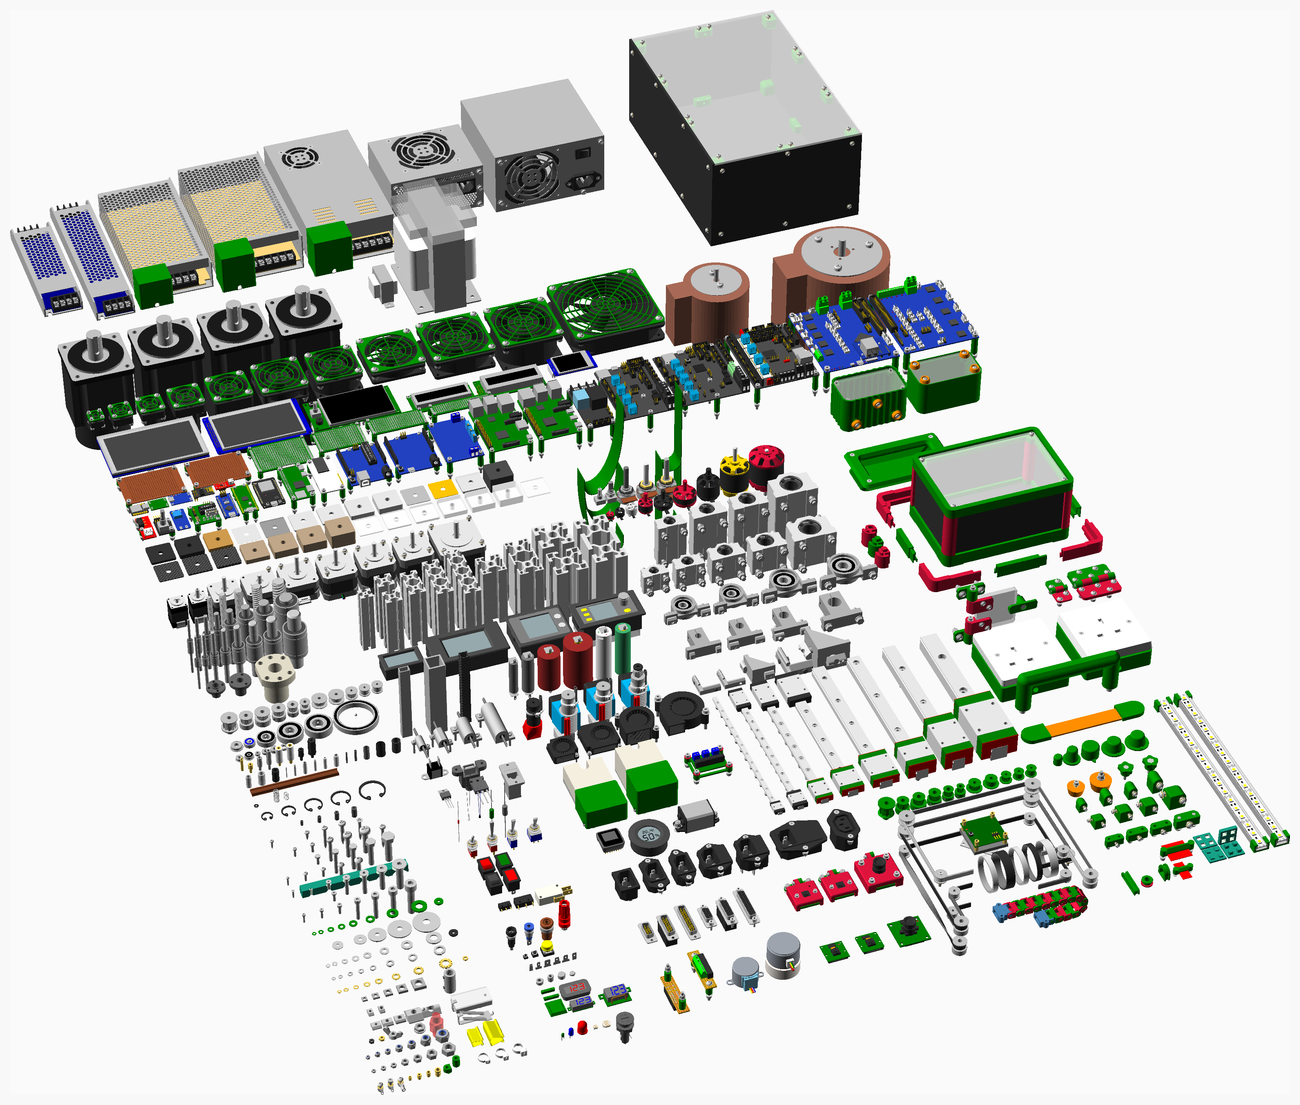
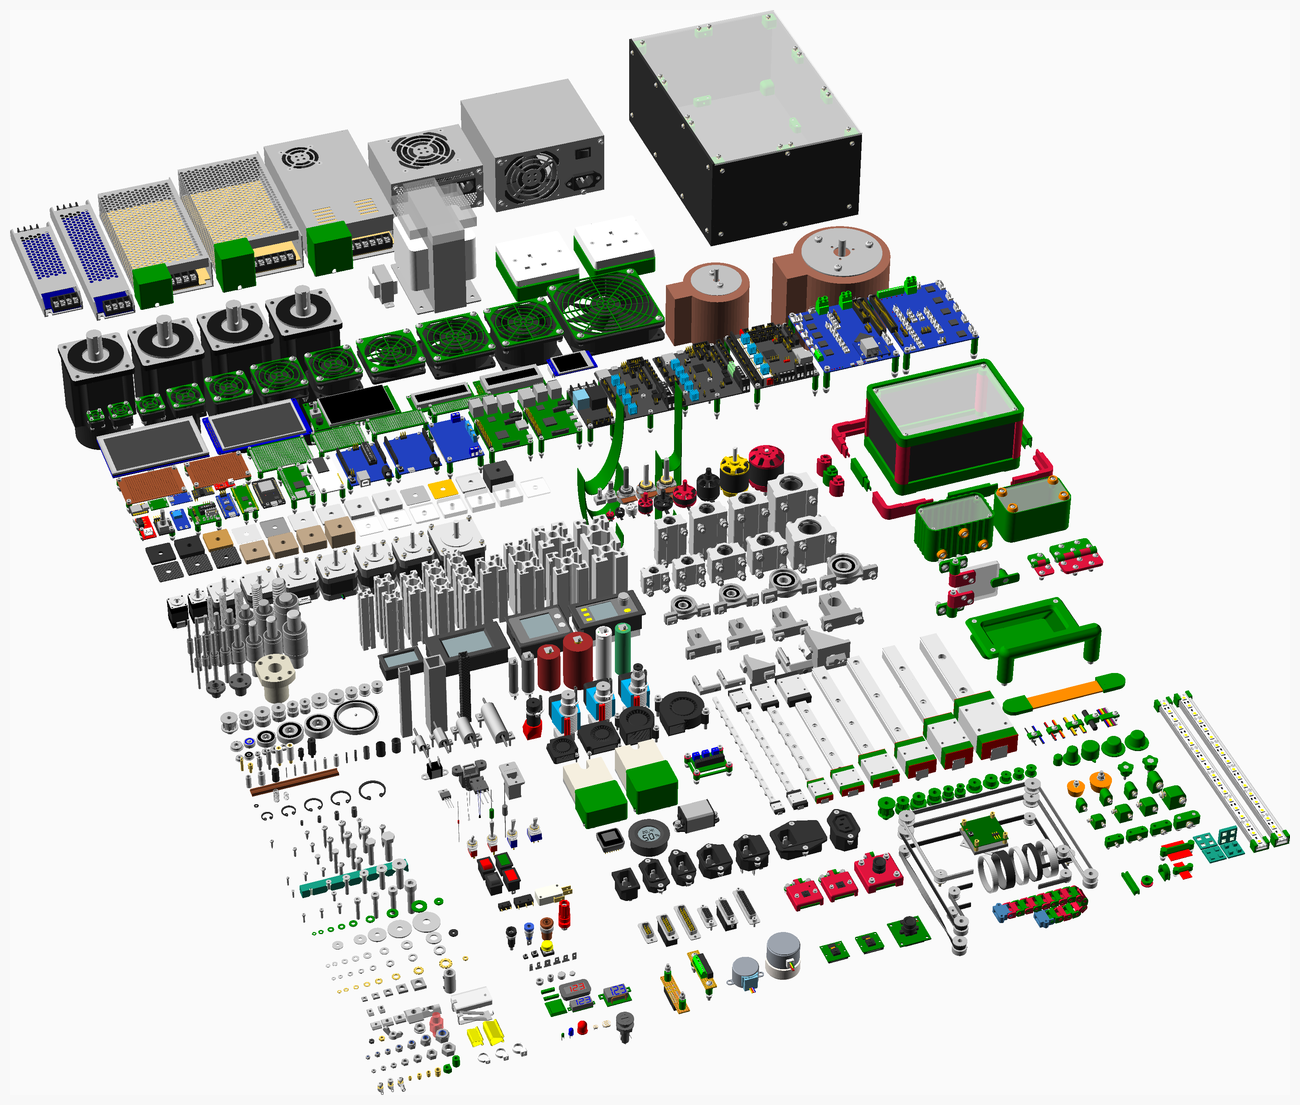
Added printed cable clips.

Changed region(s): [[0.6154, 0.3077, 0.8923, 0.6769], [0.3692, 0.2154, 0.5231, 0.2769]]

diff --git a/readme.md b/readme.md
@@ -23,30 +23,31 @@ A list of changes classified as breaking, additions or fixes is maintained in [C
 <th align="left"> Vitamins A-H </th><th align="left"> Vitamins I-Q </th><th align="left"> Vitamins R-Z </th><th align="left"> Printed </th><th align="left"> Utilities </th><th align="left"> Core Utilities </th></tr>
 <tr><td> <a href = "#7_segments">7_segments</a> </td><td> <a href = "#IECs">IECs</a> </td><td> <a href = "#Rails">Rails</a> </td><td> <a href = "#Box">Box</a> </td><td> <a href = "#Annotation">Annotation</a> </td><td> <a href = "#BOM">BOM</a> </td></tr>
 <tr><td> <a href = "#Axials">Axials</a> </td><td> <a href = "#Inserts">Inserts</a> </td><td> <a href = "#Ring_terminals">Ring_terminals</a> </td><td> <a href = "#Butt_box">Butt_box</a> </td><td> <a href = "#Bezier">Bezier</a> </td><td> <a href = "#Clip">Clip</a> </td></tr>
-<tr><td> <a href = "#BLDC_motors">BLDC_motors</a> </td><td> <a href = "#Jack">Jack</a> </td><td> <a href = "#Rockers">Rockers</a> </td><td> <a href = "#Cable_grommets">Cable_grommets</a> </td><td> <a href = "#Catenary">Catenary</a> </td><td> <a href = "#Global">Global</a> </td></tr>
-<tr><td> <a href = "#Ball_bearings">Ball_bearings</a> </td><td> <a href = "#LDRs">LDRs</a> </td><td> <a href = "#Rod">Rod</a> </td><td> <a href = "#Camera_housing">Camera_housing</a> </td><td> <a href = "#Core_xy">Core_xy</a> </td><td> <a href = "#Polyholes">Polyholes</a> </td></tr>
-<tr><td> <a href = "#Batteries">Batteries</a> </td><td> <a href = "#LED_meters">LED_meters</a> </td><td> <a href = "#SK_brackets">SK_brackets</a> </td><td> <a href = "#Carriers">Carriers</a> </td><td> <a href = "#Dogbones">Dogbones</a> </td><td> <a href = "#Rounded_rectangle">Rounded_rectangle</a> </td></tr>
-<tr><td> <a href = "#Bearing_blocks">Bearing_blocks</a> </td><td> <a href = "#LEDs">LEDs</a> </td><td> <a href = "#SMDs">SMDs</a> </td><td> <a href = "#Corner_block">Corner_block</a> </td><td> <a href = "#Fillet">Fillet</a> </td><td> <a href = "#Sphere">Sphere</a> </td></tr>
-<tr><td> <a href = "#Belts">Belts</a> </td><td> <a href = "#Leadnuts">Leadnuts</a> </td><td> <a href = "#SSRs">SSRs</a> </td><td> <a href = "#Door_hinge">Door_hinge</a> </td><td> <a href = "#Gears">Gears</a> </td><td> <a href = "#Teardrops">Teardrops</a> </td></tr>
-<tr><td> <a href = "#Blowers">Blowers</a> </td><td> <a href = "#Light_strips">Light_strips</a> </td><td> <a href = "#Screws">Screws</a> </td><td> <a href = "#Door_latch">Door_latch</a> </td><td> <a href = "#Hanging_hole">Hanging_hole</a> </td><td></td></tr>
-<tr><td> <a href = "#Box_sections">Box_sections</a> </td><td> <a href = "#Linear_bearings">Linear_bearings</a> </td><td> <a href = "#Sealing_strip">Sealing_strip</a> </td><td> <a href = "#Drag_chain">Drag_chain</a> </td><td> <a href = "#Horiholes">Horiholes</a> </td><td></td></tr>
-<tr><td> <a href = "#Bulldogs">Bulldogs</a> </td><td> <a href = "#Magnets">Magnets</a> </td><td> <a href = "#Servo_motors">Servo_motors</a> </td><td> <a href = "#Fan_guard">Fan_guard</a> </td><td> <a href = "#Layout">Layout</a> </td><td></td></tr>
-<tr><td> <a href = "#Buttons">Buttons</a> </td><td> <a href = "#Mains_sockets">Mains_sockets</a> </td><td> <a href = "#Shaft_couplings">Shaft_couplings</a> </td><td> <a href = "#Fixing_block">Fixing_block</a> </td><td> <a href = "#Maths">Maths</a> </td><td></td></tr>
-<tr><td> <a href = "#Cable_strips">Cable_strips</a> </td><td> <a href = "#Microswitches">Microswitches</a> </td><td> <a href = "#Sheets">Sheets</a> </td><td> <a href = "#Flat_hinge">Flat_hinge</a> </td><td> <a href = "#Offset">Offset</a> </td><td></td></tr>
-<tr><td> <a href = "#Cameras">Cameras</a> </td><td> <a href = "#Microview">Microview</a> </td><td> <a href = "#Spades">Spades</a> </td><td> <a href = "#Foot">Foot</a> </td><td> <a href = "#Quadrant">Quadrant</a> </td><td></td></tr>
-<tr><td> <a href = "#Circlips">Circlips</a> </td><td> <a href = "#Modules">Modules</a> </td><td> <a href = "#Spools">Spools</a> </td><td> <a href = "#Handle">Handle</a> </td><td> <a href = "#Round">Round</a> </td><td></td></tr>
-<tr><td> <a href = "#Components">Components</a> </td><td> <a href = "#Nuts">Nuts</a> </td><td> <a href = "#Springs">Springs</a> </td><td> <a href = "#Knob">Knob</a> </td><td> <a href = "#Rounded_cylinder">Rounded_cylinder</a> </td><td></td></tr>
-<tr><td> <a href = "#DIP">DIP</a> </td><td> <a href = "#O_ring">O_ring</a> </td><td> <a href = "#Stepper_motors">Stepper_motors</a> </td><td> <a href = "#PCB_mount">PCB_mount</a> </td><td> <a href = "#Rounded_polygon">Rounded_polygon</a> </td><td></td></tr>
-<tr><td> <a href = "#D_connectors">D_connectors</a> </td><td> <a href = "#Opengrab">Opengrab</a> </td><td> <a href = "#Swiss_clips">Swiss_clips</a> </td><td> <a href = "#PSU_shroud">PSU_shroud</a> </td><td> <a href = "#Rounded_triangle">Rounded_triangle</a> </td><td></td></tr>
-<tr><td> <a href = "#Displays">Displays</a> </td><td> <a href = "#PCB">PCB</a> </td><td> <a href = "#Terminals">Terminals</a> </td><td> <a href = "#Pocket_handle">Pocket_handle</a> </td><td> <a href = "#Sector">Sector</a> </td><td></td></tr>
-<tr><td> <a href = "#Extrusion_brackets">Extrusion_brackets</a> </td><td> <a href = "#PCBs">PCBs</a> </td><td> <a href = "#Toggles">Toggles</a> </td><td> <a href = "#Press_fit">Press_fit</a> </td><td> <a href = "#Sweep">Sweep</a> </td><td></td></tr>
-<tr><td> <a href = "#Extrusions">Extrusions</a> </td><td> <a href = "#PSUs">PSUs</a> </td><td> <a href = "#Transformers">Transformers</a> </td><td> <a href = "#Printed_box">Printed_box</a> </td><td> <a href = "#Thread">Thread</a> </td><td></td></tr>
-<tr><td> <a href = "#Fans">Fans</a> </td><td> <a href = "#Panel_meters">Panel_meters</a> </td><td> <a href = "#Tubings">Tubings</a> </td><td> <a href = "#Printed_pulleys">Printed_pulleys</a> </td><td> <a href = "#Tube">Tube</a> </td><td></td></tr>
-<tr><td> <a href = "#Fuseholder">Fuseholder</a> </td><td> <a href = "#Pillars">Pillars</a> </td><td> <a href = "#Variacs">Variacs</a> </td><td> <a href = "#Ribbon_clamp">Ribbon_clamp</a> </td><td></td><td></td></tr>
-<tr><td> <a href = "#Geared_steppers">Geared_steppers</a> </td><td> <a href = "#Pillow_blocks">Pillow_blocks</a> </td><td> <a href = "#Veroboard">Veroboard</a> </td><td> <a href = "#SSR_shroud">SSR_shroud</a> </td><td></td><td></td></tr>
-<tr><td> <a href = "#Green_terminals">Green_terminals</a> </td><td> <a href = "#Pin_headers">Pin_headers</a> </td><td> <a href = "#Washers">Washers</a> </td><td> <a href = "#Screw_knob">Screw_knob</a> </td><td></td><td></td></tr>
-<tr><td> <a href = "#Hot_ends">Hot_ends</a> </td><td> <a href = "#Potentiometers">Potentiometers</a> </td><td> <a href = "#Wire">Wire</a> </td><td> <a href = "#Socket_box">Socket_box</a> </td><td></td><td></td></tr>
-<tr><td> <a href = "#Hygrometer">Hygrometer</a> </td><td> <a href = "#Pulleys">Pulleys</a> </td><td> <a href = "#Zipties">Zipties</a> </td><td> <a href = "#Strap_handle">Strap_handle</a> </td><td></td><td></td></tr>
+<tr><td> <a href = "#BLDC_motors">BLDC_motors</a> </td><td> <a href = "#Jack">Jack</a> </td><td> <a href = "#Rockers">Rockers</a> </td><td> <a href = "#Cable_clip">Cable_clip</a> </td><td> <a href = "#Catenary">Catenary</a> </td><td> <a href = "#Global">Global</a> </td></tr>
+<tr><td> <a href = "#Ball_bearings">Ball_bearings</a> </td><td> <a href = "#LDRs">LDRs</a> </td><td> <a href = "#Rod">Rod</a> </td><td> <a href = "#Cable_grommets">Cable_grommets</a> </td><td> <a href = "#Core_xy">Core_xy</a> </td><td> <a href = "#Polyholes">Polyholes</a> </td></tr>
+<tr><td> <a href = "#Batteries">Batteries</a> </td><td> <a href = "#LED_meters">LED_meters</a> </td><td> <a href = "#SK_brackets">SK_brackets</a> </td><td> <a href = "#Camera_housing">Camera_housing</a> </td><td> <a href = "#Dogbones">Dogbones</a> </td><td> <a href = "#Rounded_rectangle">Rounded_rectangle</a> </td></tr>
+<tr><td> <a href = "#Bearing_blocks">Bearing_blocks</a> </td><td> <a href = "#LEDs">LEDs</a> </td><td> <a href = "#SMDs">SMDs</a> </td><td> <a href = "#Carriers">Carriers</a> </td><td> <a href = "#Fillet">Fillet</a> </td><td> <a href = "#Sphere">Sphere</a> </td></tr>
+<tr><td> <a href = "#Belts">Belts</a> </td><td> <a href = "#Leadnuts">Leadnuts</a> </td><td> <a href = "#SSRs">SSRs</a> </td><td> <a href = "#Corner_block">Corner_block</a> </td><td> <a href = "#Gears">Gears</a> </td><td> <a href = "#Teardrops">Teardrops</a> </td></tr>
+<tr><td> <a href = "#Blowers">Blowers</a> </td><td> <a href = "#Light_strips">Light_strips</a> </td><td> <a href = "#Screws">Screws</a> </td><td> <a href = "#Door_hinge">Door_hinge</a> </td><td> <a href = "#Hanging_hole">Hanging_hole</a> </td><td></td></tr>
+<tr><td> <a href = "#Box_sections">Box_sections</a> </td><td> <a href = "#Linear_bearings">Linear_bearings</a> </td><td> <a href = "#Sealing_strip">Sealing_strip</a> </td><td> <a href = "#Door_latch">Door_latch</a> </td><td> <a href = "#Horiholes">Horiholes</a> </td><td></td></tr>
+<tr><td> <a href = "#Bulldogs">Bulldogs</a> </td><td> <a href = "#Magnets">Magnets</a> </td><td> <a href = "#Servo_motors">Servo_motors</a> </td><td> <a href = "#Drag_chain">Drag_chain</a> </td><td> <a href = "#Layout">Layout</a> </td><td></td></tr>
+<tr><td> <a href = "#Buttons">Buttons</a> </td><td> <a href = "#Mains_sockets">Mains_sockets</a> </td><td> <a href = "#Shaft_couplings">Shaft_couplings</a> </td><td> <a href = "#Fan_guard">Fan_guard</a> </td><td> <a href = "#Maths">Maths</a> </td><td></td></tr>
+<tr><td> <a href = "#Cable_strips">Cable_strips</a> </td><td> <a href = "#Microswitches">Microswitches</a> </td><td> <a href = "#Sheets">Sheets</a> </td><td> <a href = "#Fixing_block">Fixing_block</a> </td><td> <a href = "#Offset">Offset</a> </td><td></td></tr>
+<tr><td> <a href = "#Cameras">Cameras</a> </td><td> <a href = "#Microview">Microview</a> </td><td> <a href = "#Spades">Spades</a> </td><td> <a href = "#Flat_hinge">Flat_hinge</a> </td><td> <a href = "#Quadrant">Quadrant</a> </td><td></td></tr>
+<tr><td> <a href = "#Circlips">Circlips</a> </td><td> <a href = "#Modules">Modules</a> </td><td> <a href = "#Spools">Spools</a> </td><td> <a href = "#Foot">Foot</a> </td><td> <a href = "#Round">Round</a> </td><td></td></tr>
+<tr><td> <a href = "#Components">Components</a> </td><td> <a href = "#Nuts">Nuts</a> </td><td> <a href = "#Springs">Springs</a> </td><td> <a href = "#Handle">Handle</a> </td><td> <a href = "#Rounded_cylinder">Rounded_cylinder</a> </td><td></td></tr>
+<tr><td> <a href = "#DIP">DIP</a> </td><td> <a href = "#O_ring">O_ring</a> </td><td> <a href = "#Stepper_motors">Stepper_motors</a> </td><td> <a href = "#Knob">Knob</a> </td><td> <a href = "#Rounded_polygon">Rounded_polygon</a> </td><td></td></tr>
+<tr><td> <a href = "#D_connectors">D_connectors</a> </td><td> <a href = "#Opengrab">Opengrab</a> </td><td> <a href = "#Swiss_clips">Swiss_clips</a> </td><td> <a href = "#PCB_mount">PCB_mount</a> </td><td> <a href = "#Rounded_triangle">Rounded_triangle</a> </td><td></td></tr>
+<tr><td> <a href = "#Displays">Displays</a> </td><td> <a href = "#PCB">PCB</a> </td><td> <a href = "#Terminals">Terminals</a> </td><td> <a href = "#PSU_shroud">PSU_shroud</a> </td><td> <a href = "#Sector">Sector</a> </td><td></td></tr>
+<tr><td> <a href = "#Extrusion_brackets">Extrusion_brackets</a> </td><td> <a href = "#PCBs">PCBs</a> </td><td> <a href = "#Toggles">Toggles</a> </td><td> <a href = "#Pocket_handle">Pocket_handle</a> </td><td> <a href = "#Sweep">Sweep</a> </td><td></td></tr>
+<tr><td> <a href = "#Extrusions">Extrusions</a> </td><td> <a href = "#PSUs">PSUs</a> </td><td> <a href = "#Transformers">Transformers</a> </td><td> <a href = "#Press_fit">Press_fit</a> </td><td> <a href = "#Thread">Thread</a> </td><td></td></tr>
+<tr><td> <a href = "#Fans">Fans</a> </td><td> <a href = "#Panel_meters">Panel_meters</a> </td><td> <a href = "#Tubings">Tubings</a> </td><td> <a href = "#Printed_box">Printed_box</a> </td><td> <a href = "#Tube">Tube</a> </td><td></td></tr>
+<tr><td> <a href = "#Fuseholder">Fuseholder</a> </td><td> <a href = "#Pillars">Pillars</a> </td><td> <a href = "#Variacs">Variacs</a> </td><td> <a href = "#Printed_pulleys">Printed_pulleys</a> </td><td></td><td></td></tr>
+<tr><td> <a href = "#Geared_steppers">Geared_steppers</a> </td><td> <a href = "#Pillow_blocks">Pillow_blocks</a> </td><td> <a href = "#Veroboard">Veroboard</a> </td><td> <a href = "#Ribbon_clamp">Ribbon_clamp</a> </td><td></td><td></td></tr>
+<tr><td> <a href = "#Green_terminals">Green_terminals</a> </td><td> <a href = "#Pin_headers">Pin_headers</a> </td><td> <a href = "#Washers">Washers</a> </td><td> <a href = "#SSR_shroud">SSR_shroud</a> </td><td></td><td></td></tr>
+<tr><td> <a href = "#Hot_ends">Hot_ends</a> </td><td> <a href = "#Potentiometers">Potentiometers</a> </td><td> <a href = "#Wire">Wire</a> </td><td> <a href = "#Screw_knob">Screw_knob</a> </td><td></td><td></td></tr>
+<tr><td> <a href = "#Hygrometer">Hygrometer</a> </td><td> <a href = "#Pulleys">Pulleys</a> </td><td> <a href = "#Zipties">Zipties</a> </td><td> <a href = "#Socket_box">Socket_box</a> </td><td></td><td></td></tr>
+<tr><td></td><td></td><td></td><td> <a href = "#Strap_handle">Strap_handle</a> </td><td></td><td></td></tr>
 </table>
 
 ---
@@ -4684,6 +4685,51 @@ fixing_blocks along the sides.
 |   1 | bbox_assembly |
 |   8 | corner_block_M30_assembly |
 |  12 | fixing_block_M30_assembly |
+
+
+<a href="#top">Top</a>
+
+---
+<a name="Cable_clip"></a>
+## Cable_clip
+Cable clips to order. Can be for one or two cables of different sizes.
+
+[printed/cable_clip.scad](printed/cable_clip.scad) Implementation.
+
+[tests/cable_clip.scad](tests/cable_clip.scad) Code for this example.
+
+### Functions
+| Function | Description |
+|:--- |:--- |
+| `cable_clip_extent(screw, cable)` | How far it extends from the screw. |
+| `cable_clip_height(cable)` | Height given the `cable`. |
+| `cable_clip_offset(screw, cable)` | The offset of the cable from the screw |
+| `cable_clip_width(screw)` | Width given the `screw`. |
+
+### Modules
+| Module | Description |
+|:--- |:--- |
+| `cable_clip(screw, cable1, cable2 = 0)` | Create the STL for a single cable or two cable clip |
+| `cable_clip_assembly(screw, thickness, cable1, cable2 = 0)` | Cable clip with the fasteners |
+
+![cable_clip](tests/png/cable_clip.png)
+
+### Vitamins
+| Qty | Module call | BOM entry |
+| ---:|:--- |:---|
+|   5 | `nut(M3_nut, nyloc = true)` |  Nut M3 x 2.4mm nyloc |
+|   2 | `screw(M3_dome_screw, 12)` |  Screw M3 dome x 12mm |
+|   3 | `screw(M3_dome_screw, 16)` |  Screw M3 dome x 16mm |
+|  10 | `washer(M3_washer)` |  Washer  M3 x 7mm x 0.5mm |
+
+### Printed
+| Qty | Filename |
+| ---:|:--- |
+|   1 | cable_clip_30_10_13.stl |
+|   1 | cable_clip_30_1_14_2_14.stl |
+|   1 | cable_clip_30_1_60.stl |
+|   1 | cable_clip_30_3_14_4_14.stl |
+|   1 | cable_clip_30_5_14_6_14.stl |
 
 
 <a href="#top">Top</a>
